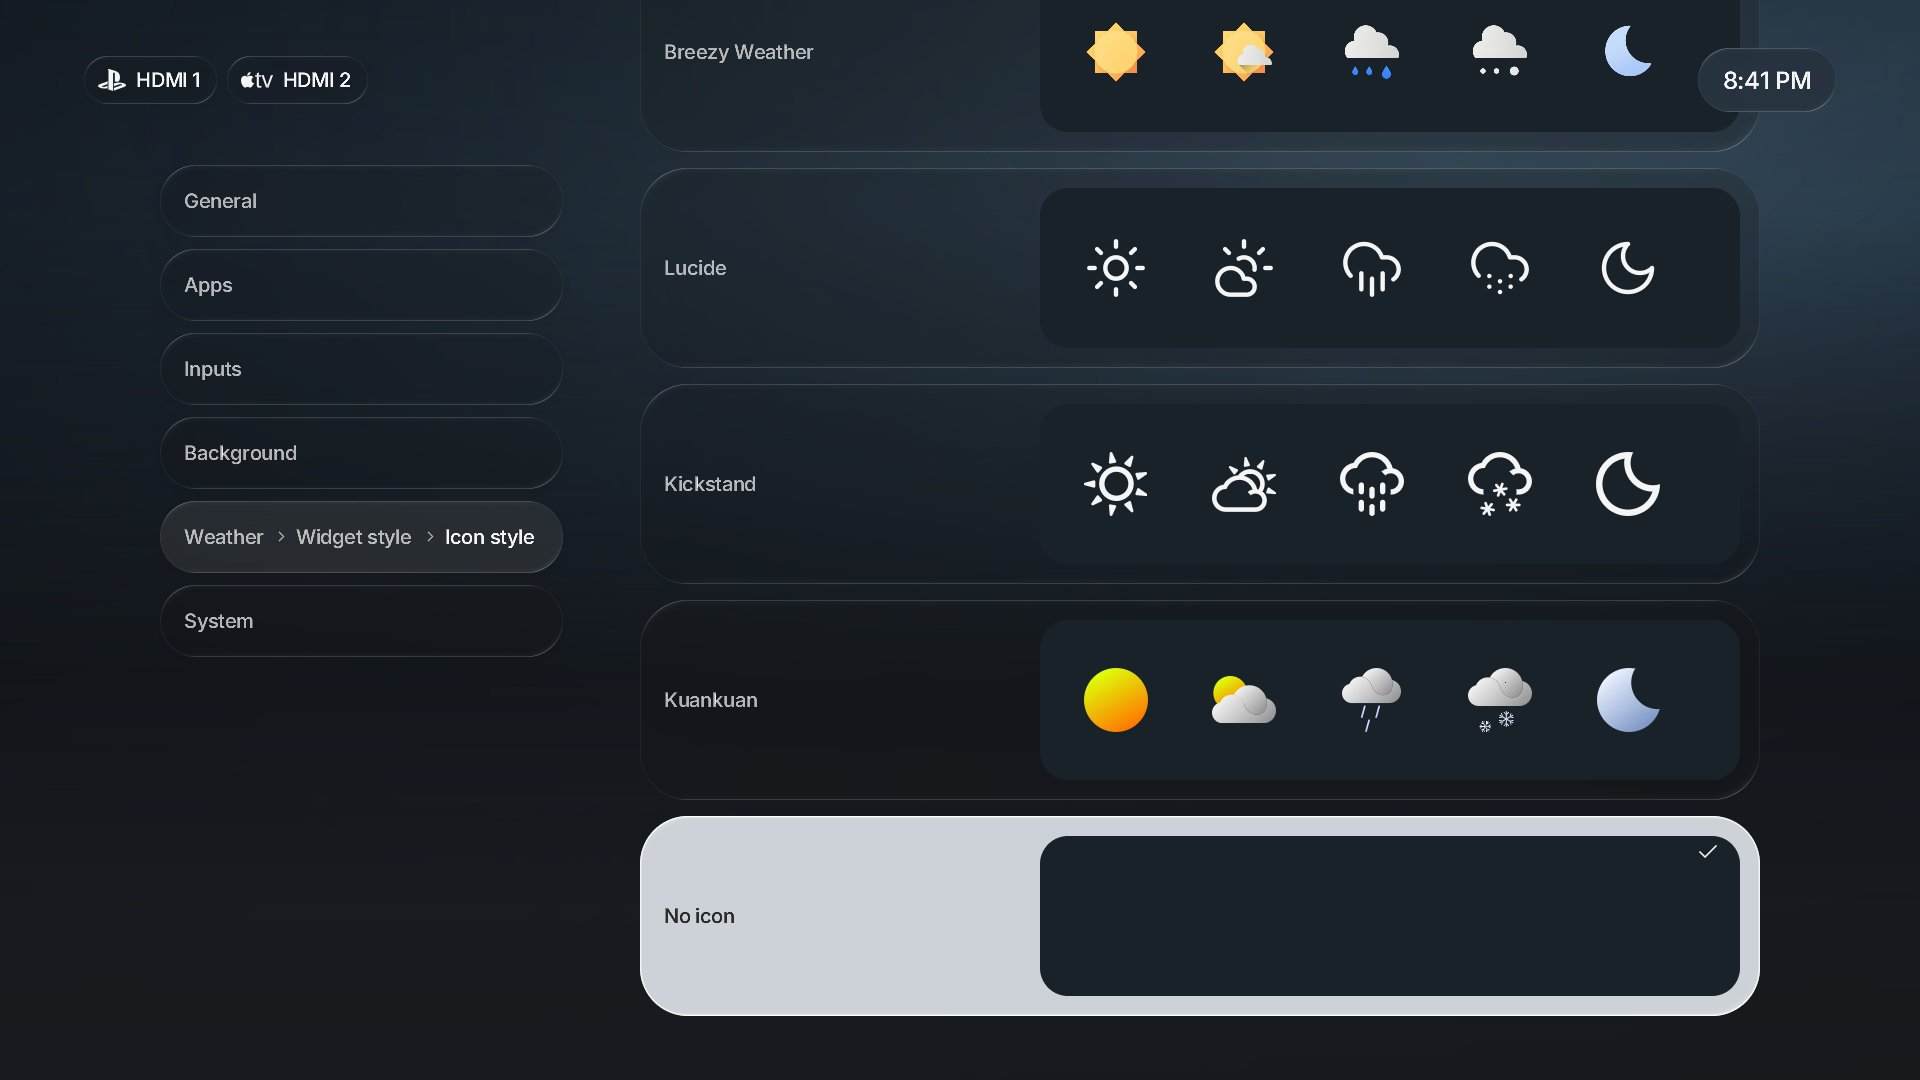
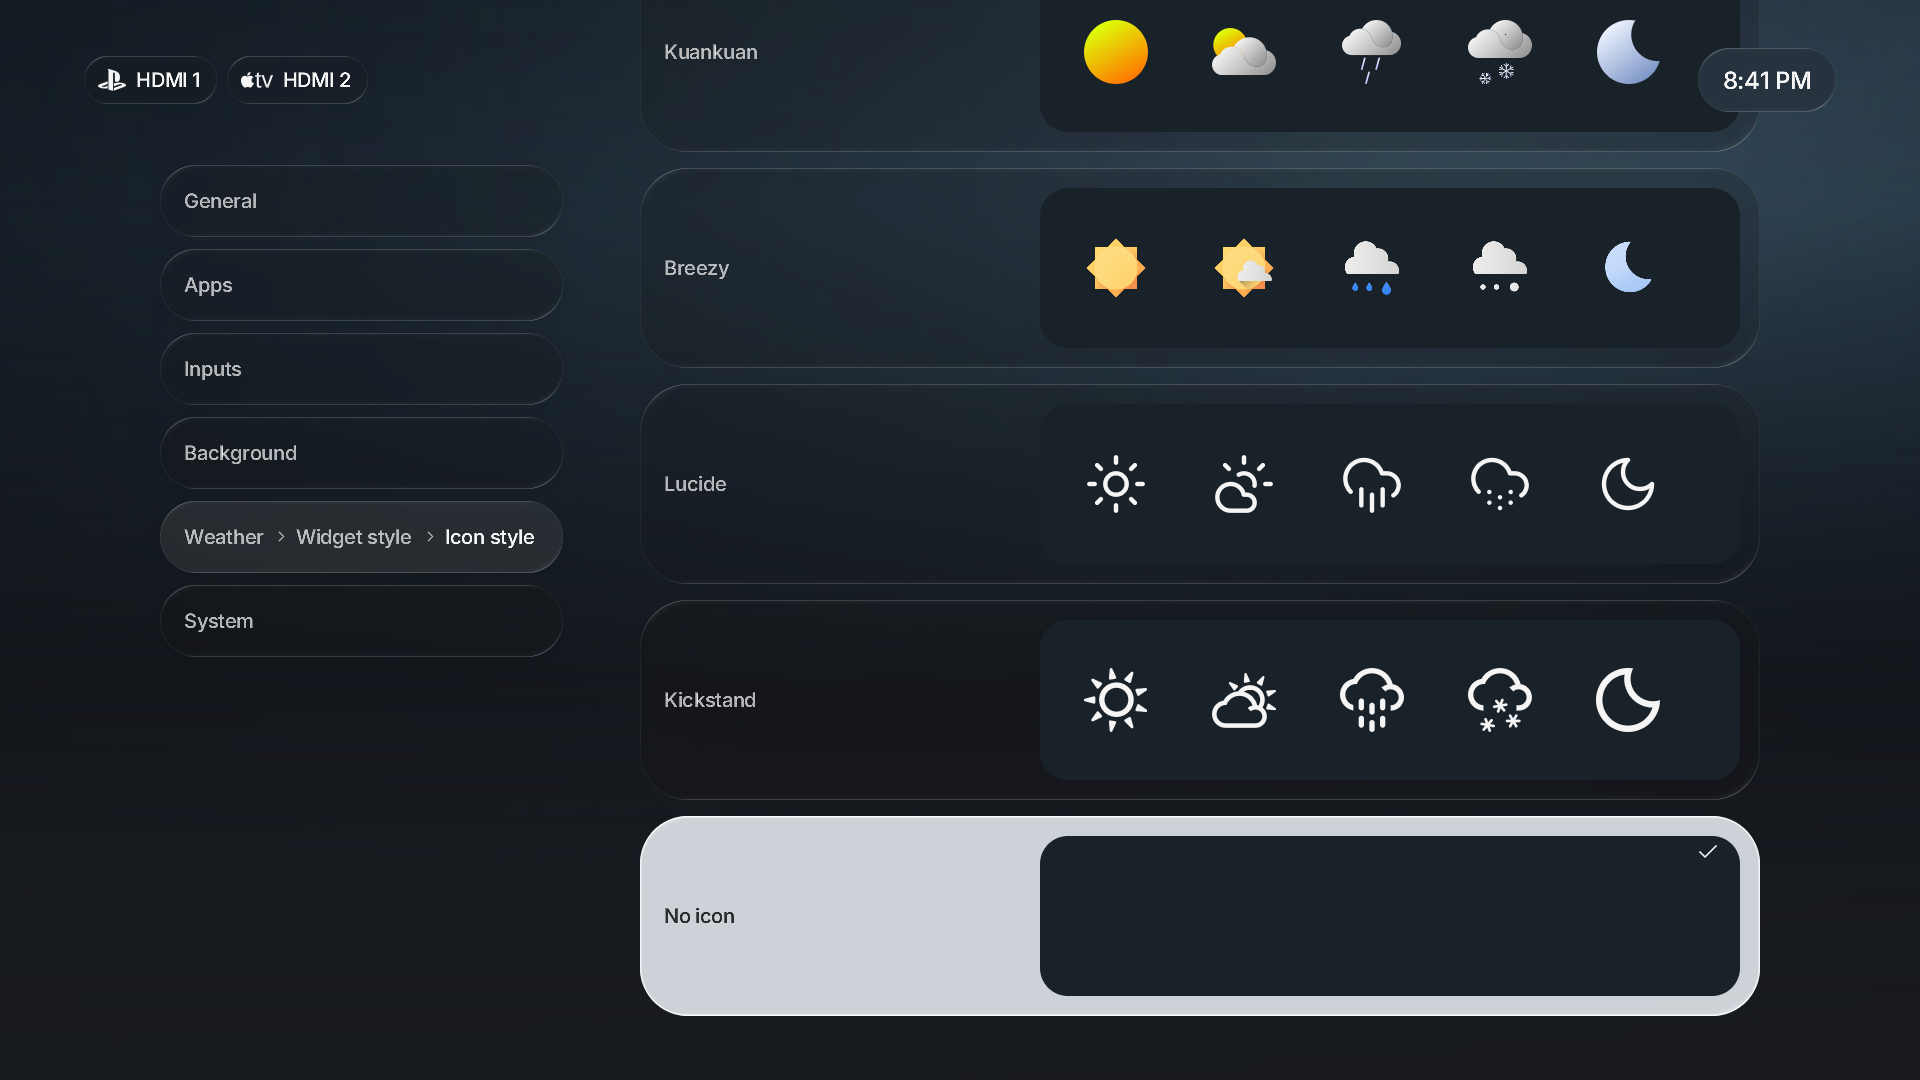
feat(weather): default to Kuankuan and place it first

diff --git a/src/weather-style-tests.rs b/src/weather-style-tests.rs
@@ -75,7 +75,7 @@ fn appearance_controls_live_inside_widget_style_and_update_previews_immediately(
     );
     state.direction(Direction::Down, &controls(&state));
     state.activate();
-    state.focus = Target::Choice(2);
+    state.focus = Target::Choice(3);
     state.activate();
     assert_eq!(state.subpage, Some(Subpage::WeatherStyle));
     assert_eq!(state.focus, Target::WeatherIcons);
@@ -189,11 +189,13 @@ fn no_icon_is_an_independent_choice_and_legacy_layouts_migrate() {
 }
 
 #[test]
-fn weather_icon_preferences_default_to_breezy_and_round_trip_per_instance() {
+fn weather_icon_preferences_default_to_kuankuan_and_round_trip_per_instance() {
     use crate::model::{HomeWidget, WeatherIconStyle};
     let old: Preferences = serde_json::from_str(r#"{"extra_weather":[{}]}"#).unwrap();
-    assert_eq!(old.weather_icons, WeatherIconStyle::Breezy);
-    assert_eq!(old.extra_weather[0].icons, WeatherIconStyle::Breezy);
+    assert_eq!(old.weather_icons, WeatherIconStyle::Kuankuan);
+    assert_eq!(old.extra_weather[0].icons, WeatherIconStyle::Kuankuan);
+    assert_eq!(WeatherIconStyle::ALL[0], WeatherIconStyle::Kuankuan);
+    assert_eq!(WeatherIconStyle::Breezy.label(), "Breezy");
     for icons in WeatherIconStyle::ALL {
         let mut state = configured();
         state.preferences.extra_weather.push(Default::default());
@@ -227,7 +229,7 @@ fn weather_icon_picker_saves_only_on_selection_and_restores_parent_for_remote_an
         state.direction(Direction::Down, &controls(&state));
     }
     assert_eq!(state.focus, Target::Choice(3));
-    assert_eq!(state.preferences.weather_icons, WeatherIconStyle::Breezy);
+    assert_eq!(state.preferences.weather_icons, WeatherIconStyle::Kuankuan);
     state.back();
     assert_eq!(state.focus, Target::WeatherIcons);
     state.activate();
@@ -244,7 +246,7 @@ fn weather_icon_picker_saves_only_on_selection_and_restores_parent_for_remote_an
     );
     state.pointer_focus(Target::Choice(3));
     assert_eq!(state.activate(), [Effect::Save]);
-    assert_eq!(state.preferences.weather_icons, WeatherIconStyle::Kuankuan);
+    assert_eq!(state.preferences.weather_icons, WeatherIconStyle::Kickstand);
     assert_eq!(state.subpage, Some(Subpage::WeatherStyle));
     assert_eq!(state.focus, Target::WeatherIcons);
     assert_eq!(state.weather.cache, cache);

diff --git a/src/model.rs b/src/model.rs
@@ -261,26 +261,26 @@ pub enum WeatherStyle {
 #[derive(Clone, Copy, Debug, Default, PartialEq, Eq, Deserialize, Serialize)]
 #[serde(rename_all = "snake_case")]
 pub enum WeatherIconStyle {
-    #[default]
     Breezy,
     Lucide,
     Kickstand,
+    #[default]
     Kuankuan,
     None,
 }
 
 impl WeatherIconStyle {
     pub const ALL: [Self; 5] = [
+        Self::Kuankuan,
         Self::Breezy,
         Self::Lucide,
         Self::Kickstand,
-        Self::Kuankuan,
         Self::None,
     ];
 
     pub fn label(self) -> &'static str {
         match self {
-            Self::Breezy => "Breezy Weather",
+            Self::Breezy => "Breezy",
             Self::Lucide => "Lucide",
             Self::Kickstand => "Kickstand",
             Self::Kuankuan => "Kuankuan",

diff --git a/src/glass-home-tests.rs b/src/glass-home-tests.rs
@@ -726,7 +726,7 @@ fn weather_empty_state_uses_a_large_icon_and_setup_action() {
     let state = ready();
     let rendered = scene(&state);
     assert!(rendered.draw.iter().any(|draw| matches!(draw,
-        Draw::Image(path, rect, ..) | Draw::TintedImage(path, rect, ..) if path.ends_with("weather/partly-cloudy.png") && rect.w == 144. && rect.h == 144.)));
+        Draw::Image(path, rect, ..) | Draw::TintedImage(path, rect, ..) if path.ends_with(&state.preferences.weather_icons.asset("partly-cloudy")) && rect.w == 144. && rect.h == 144.)));
     assert!(rendered.draw.iter().any(|draw| matches!(draw,
         Draw::Text(label, _, style, ..) if label == state.preferences.language.t("setWeatherLocation") && style.size >= 24.)));
     let setup = rendered

diff --git a/development.md b/development.md
@@ -377,8 +377,8 @@ sizes, with uniform 26-pixel text and a 32-pixel icon matching Compact's bottom 
 Saved-reading warnings stay below the row.
 One line occupies a 2×1 grid footprint (1×1 in small size). Switching back to a taller
 style relocates the widget if necessary, or keeps the previous style if no space is available.
-Breezy Weather remains the default icon style. Weather → Widget style → Icon style offers Breezy Weather,
-Lucide, Kickstand and Kuankuan with offline condition samples in 200-pixel picker rows
+Kuankuan is the default icon style. Weather → Widget style → Icon style offers Kuankuan first,
+followed by Breezy, Lucide, Kickstand and No icon, with offline condition samples in 200-pixel picker rows
 matching the layout previews, with centered 64-pixel icons. Both weather pickers use 20-pixel preview insets with 28-pixel
 inner corner radii to match the rows' 48-pixel outer corners. Sidebar breadcrumbs show at most the
 last three levels, retaining the current page and its closest parents. `weather_icons` stores the primary

diff --git a/readme.md b/readme.md
@@ -33,7 +33,7 @@ https://github.com/user-attachments/assets/cae57643-f6b4-47b5-ad7d-0483b32eeb2d
 - Customizable app drawer with optional names beneath selected non-favorite apps (off by default), input icons and recent app switching.
 - Left/right navigation wraps between the first and last app in favorites and the app drawer.
 - Movable greeting, weather, stock and crypto widgets.
-- Choose Breezy Weather, Lucide, Kickstand or Kuankuan weather icons and optionally hide the location name. Layout previews follow both settings.
+- Choose Kuankuan (default), Breezy, Lucide, Kickstand or No icon weather artwork and optionally hide the location name. Layout previews follow both settings.
 - Offline credits in System → Attributions, with remote and mouse-wheel scrolling.
 - Midnight background and custom uploads, with optional rotation.
 - Webhook shortcuts and 16 interface languages.

diff --git a/.changeset/weather-location-outline.md b/.changeset/weather-location-outline.md
@@ -2,4 +2,4 @@
 "lg-luma": minor
 ---
 
-Add per-widget location-name visibility and weather icon style settings. Keep Breezy Weather as the default and offer Lucide, Kickstand and Kuankuan alternatives, with layout previews reflecting both settings. Add a read-only, scrollable System → Attributions page and bundle the new artwork's licenses and editable sources.
+Add per-widget location-name visibility and weather icon style settings. Default to Kuankuan, with Breezy, Lucide, Kickstand and No icon alternatives, preserving saved choices and reflecting both settings in layout previews. Add a read-only, scrollable System → Attributions page and bundle the new artwork's licenses and editable sources.

diff --git a/assets/weather/README.md b/assets/weather/README.md
@@ -27,7 +27,8 @@ rain artwork; condition text still distinguishes them. Weather data remains from
 
 ## Additional selectable icon sets
 
-Breezy remains the default for existing and new widgets. Icon style and location-name visibility
+Kuankuan is the default when no icon choice is saved. Explicit saved choices remain unchanged.
+The picker calls Breezy Weather “Breezy”. Icon style and location-name visibility
 are independent per-widget settings. Layout previews use both saved settings.
 
 - **Lucide:** `assets/ui-icons/weather-*.svg`, ISC with MIT Feather-derived icons. Full notices
